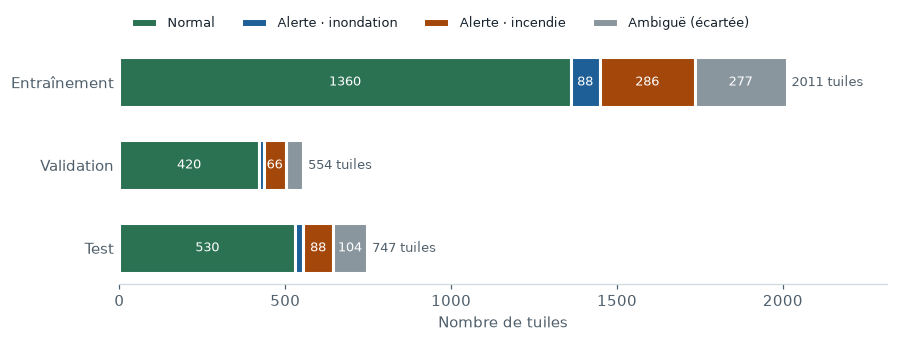
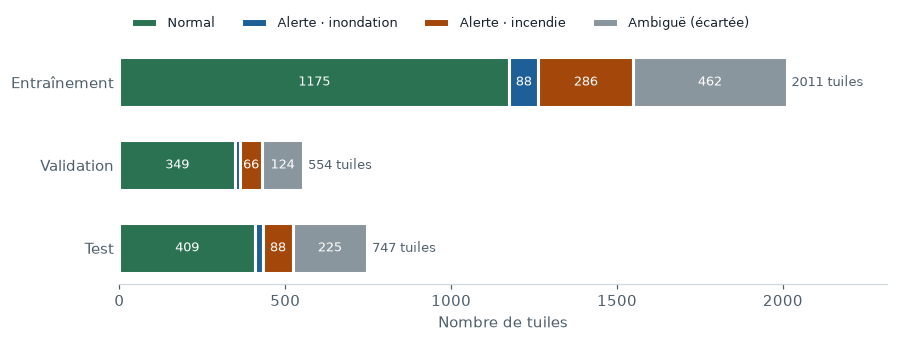
Étiquettes v2 : anciens feux écartés des normales californiennes
Périmètres NIFC 2012-2022 (onelook.data.fire_history, étape fire_history).
Une normale recouverte à plus de 0,5 % par un feu de l'année de l'image ou
des 3 précédentes passe en ambiguë : 377 tuiles, dont 121 en test.
Le premier réseau, réévalué sans réentraînement : précision incendie
81 → 90 %, fausses alertes 3,8 → 2,7 %. Notebook 03 prêt pour réentraîner
à 256 et 512 px (runs suffixés _v2).

diff --git a/src/onelook/data/fire_history.py b/src/onelook/data/fire_history.py
@@ -1,0 +1,92 @@
+"""Historique des périmètres de feux (NIFC, InterAgency Fire Perimeter History), pour les étiquettes.
+
+CaBuAr n'annote que l'incendie de l'événement : les cicatrices des feux des années précédentes restent
+« normales », alors qu'elles se voient encore sur l'image. Ce module mesure, pour chaque tuile, la part
+couverte par des feux des années précédant l'image. Sert aux étiquettes, pas d'entrée au modèle.
+"""
+
+from __future__ import annotations
+
+import json
+from pathlib import Path
+
+import numpy as np
+import requests
+from rasterio.features import rasterize
+from rasterio.warp import transform_geom
+
+from onelook.data.l2a import Grid
+
+SERVICE = ("https://services3.arcgis.com/T4QMspbfLg3qTGWY/arcgis/rest/services/"
+           "InterAgencyFirePerimeterHistory_All_Years_View/FeatureServer/0/query")
+CALIFORNIA = (-124.5, 32.5, -114.0, 42.0)
+PAGE = 500
+SIMPLIFY_DEG = 0.0003  # environ 30 m : bien en dessous d'un pixel de la grille de mesure
+MEASURE_SIZE = 128  # grille de mesure (40 m) : suffisante pour une part de tuile
+
+
+def download(out: Path, first_year: int, last_year: int, bbox: tuple = CALIFORNIA) -> Path:
+    """Télécharge les périmètres (GeoJSON, WGS84) des feux de first_year à last_year dans bbox."""
+    features, offset = [], 0
+    while True:
+        params = {
+            "where": f"FIRE_YEAR_INT>={first_year} AND FIRE_YEAR_INT<={last_year}",
+            "geometry": ",".join(map(str, bbox)), "geometryType": "esriGeometryEnvelope", "inSR": 4326,
+            "spatialRel": "esriSpatialRelIntersects", "outFields": "FIRE_YEAR_INT,INCIDENT,SOURCE",
+            "outSR": 4326, "maxAllowableOffset": SIMPLIFY_DEG, "geometryPrecision": 5,
+            "resultOffset": offset, "resultRecordCount": PAGE, "orderByFields": "OBJECTID", "f": "geojson",
+        }
+        response = requests.get(SERVICE, params=params, timeout=120)
+        response.raise_for_status()
+        page = response.json()["features"]
+        features += [f for f in page if f.get("geometry")]
+        if len(page) < PAGE:
+            break
+        offset += PAGE
+    out.parent.mkdir(parents=True, exist_ok=True)
+    out.write_text(json.dumps({"type": "FeatureCollection", "features": features}))
+    return out
+
+
+def load(path: Path) -> list[dict]:
+    """Périmètres sous la forme {year, name, geometry, bbox} (bbox en WGS84, pour filtrer vite)."""
+    fires = []
+    for feature in json.loads(Path(path).read_text())["features"]:
+        coords = np.concatenate([np.asarray(ring)[:, :2] for ring in _rings(feature["geometry"])])
+        fires.append({"year": int(feature["properties"]["FIRE_YEAR_INT"]),
+                      "name": feature["properties"].get("INCIDENT"), "geometry": feature["geometry"],
+                      "bbox": (*coords.min(axis=0), *coords.max(axis=0))})
+    return fires
+
+
+def _rings(geometry: dict) -> list:
+    if geometry["type"] == "Polygon":
+        return geometry["coordinates"]
+    return [ring for polygon in geometry["coordinates"] for ring in polygon]
+
+
+def _overlaps(a: tuple, b: tuple) -> bool:
+    return a[0] <= b[2] and b[0] <= a[2] and a[1] <= b[3] and b[1] <= a[3]
+
+
+def history_stats(grid: Grid, fires: list[dict], image_year: int, years: tuple[int, ...] = (0, 1, 2, 3, 5)) -> dict:
+    """Part de la tuile couverte par des feux de l'année de l'image et des n années précédentes (n de years).
+
+    frac_fire_0y ne compte que les feux de l'année de l'image : sans date de fin fiable, on ne sait pas
+    s'ils précèdent l'image. Pour une image après feu CaBuAr, il contient le feu de l'événement lui-même.
+    """
+    box = grid.bounds_wgs84()
+    recent = [f for f in fires if image_year - max(years) <= f["year"] <= image_year and _overlaps(f["bbox"], box)]
+    scale = grid.width / MEASURE_SIZE
+    transform = grid.transform * grid.transform.scale(scale, scale)
+    age = np.full((MEASURE_SIZE, MEASURE_SIZE), 255, dtype=np.uint8)  # âge du feu le plus récent, en années
+    names = set()
+    for fire in sorted(recent, key=lambda f: f["year"]):
+        shape = transform_geom("EPSG:4326", grid.crs, fire["geometry"])
+        burned = rasterize([shape], out_shape=age.shape, transform=transform, fill=0, dtype=np.uint8) > 0
+        age[burned] = image_year - fire["year"]
+        if burned.any():
+            names.add(f"{fire['name'] or '?'} {fire['year']}")
+    stats = {f"frac_fire_{n}y": round(float((age <= n).mean()), 4) for n in years}
+    stats["fire_history_names"] = ";".join(sorted(names))
+    return stats

diff --git a/scripts/build_dataset.py b/scripts/build_dataset.py
@@ -6,6 +6,7 @@
     uv run python scripts/build_dataset.py fires     # 534 tuiles CaBuAr → ~2 100 tuiles + images avant feu
     uv run python scripts/build_dataset.py normals   # catalogue sur plusieurs années + points au hasard
     uv run python scripts/build_dataset.py water     # carte d'eau permanente JRC sur chaque tuile
+    uv run python scripts/build_dataset.py fire_history  # anciens feux (NIFC) sur les tuiles de Californie
     uv run python scripts/build_dataset.py index     # index.csv avec le découpage train / val / test
     uv run python scripts/build_dataset.py all       # tout, dans l'ordre
 
@@ -26,7 +27,7 @@ import pandas as pd
 import yaml
 from tqdm import tqdm
 
-from onelook.data import build, l2a, sources, water
+from onelook.data import build, fire_history, l2a, sources, water
 from onelook.data.labels import LabelRules
 from onelook.data.splits import assign_zones, haversine_km, spatial_zones
 
@@ -149,6 +150,29 @@ def stage_water(limit: int | None, workers: int) -> None:
     run_jobs(jobs, worker, log, workers, "Eau permanente")
 
 
+def stage_fire_history(limit: int | None, workers: int) -> None:
+    """Part de chaque tuile de Californie couverte par des feux des années précédentes (fire_history.jsonl)."""
+    perimeters = ROOT / "data" / "raw" / "fire_history" / "nifc_californie_2012_2022.geojson"
+    if not perimeters.exists():
+        fire_history.download(perimeters, 2012, 2022)
+    fires = fire_history.load(perimeters)
+    log = DATASET / "fire_history.jsonl"
+    done = build.done_ids(log)
+    west, south, east, north = fire_history.CALIFORNIA
+    tiles = pd.concat([read_log(n) for n in ("floods", "fires", "normals")], ignore_index=True)
+    if "error" in tiles:
+        tiles = tiles[tiles["error"].isna()]
+    tiles = tiles[tiles["lon"].between(west, east) & tiles["lat"].between(south, north)]
+    jobs = [{"id": r.id, "image": r.image, "year": int(str(r.date)[:4])}
+            for r in tiles.drop_duplicates("id", keep="last").itertuples() if r.id not in done][:limit]
+
+    def worker(job: dict) -> dict:
+        grid = l2a.Grid.from_file(DATASET / job["image"])
+        return {"id": job["id"], **fire_history.history_stats(grid, fires, job["year"])}
+
+    run_jobs(jobs, worker, log, workers, "Anciens feux")
+
+
 def stage_index() -> None:
     df = pd.concat([read_log(n) for n in ("floods", "fires", "normals")], ignore_index=True)
     if "error" not in df:
@@ -161,11 +185,12 @@ def stage_index() -> None:
     group_split = {g: split for split, groups in splits["groups"].items() for g in groups}
     group_split.update(cabuar_zone_splits(df, splits["cabuar_zones"]))
     df["split"] = df["group"].map(group_split).fillna(splits["default"])
-    water_log = read_log("water")
-    if "error" in water_log:
-        water_log = water_log[water_log["error"].isna()].drop(columns="error")
-    if len(water_log):
-        df = df.merge(water_log.drop_duplicates("id", keep="last"), on="id", how="left")
+    for name in ("water", "fire_history"):
+        extra = read_log(name)
+        if "error" in extra:
+            extra = extra[extra["error"].isna()].drop(columns="error")
+        if len(extra):
+            df = df.merge(extra.drop_duplicates("id", keep="last"), on="id", how="left")
     df["scenes"] = df["scenes"].map(lambda s: ";".join(s) if isinstance(s, list) else s)
     df.sort_values(["split", "source", "id"]).to_csv(DATASET / "index.csv", index=False)
 
@@ -181,7 +206,7 @@ def stage_index() -> None:
 
 def main() -> None:
     parser = argparse.ArgumentParser(description=__doc__, formatter_class=argparse.RawDescriptionHelpFormatter)
-    parser.add_argument("stage", choices=["floods", "fires", "normals", "water", "index", "all"])
+    parser.add_argument("stage", choices=["floods", "fires", "normals", "water", "fire_history", "index", "all"])
     parser.add_argument("--limit", type=int, help="Nombre maximal de tâches (essai)")
     parser.add_argument("--workers", type=int, default=6)
     args = parser.parse_args()
@@ -194,6 +219,8 @@ def main() -> None:
         stage_normals(args.limit, args.workers)
     if args.stage in ("water", "all"):
         stage_water(args.limit, args.workers)
+    if args.stage in ("fire_history", "all"):
+        stage_fire_history(args.limit, args.workers)
     if args.stage in ("index", "all"):
         stage_index()
 

diff --git a/tests/test_fire_history.py b/tests/test_fire_history.py
@@ -1,0 +1,30 @@
+from affine import Affine
+from rasterio.warp import transform_bounds
+
+from onelook.data.fire_history import history_stats
+from onelook.data.l2a import Grid
+
+# Tuile de 5,12 km en UTM 10N, en Californie
+GRID = Grid("EPSG:32610", Affine(10, 0, 600_000, 0, -10, 4_200_000))
+
+
+def fire(year: int, left_share: float) -> dict:
+    """Feu couvrant la part left_share de la tuile, côté ouest."""
+    x0, y0, x1, y1 = 599_000, 4_194_880, 600_000 + 5120 * left_share, 4_201_000
+    west, south, east, north = transform_bounds("EPSG:32610", "EPSG:4326", x0, y0, x1, y1)
+    ring = [[west, south], [east, south], [east, north], [west, north], [west, south]]
+    return {"year": year, "name": f"F{year}", "geometry": {"type": "Polygon", "coordinates": [ring]},
+            "bbox": (west, south, east, north)}
+
+
+def test_history_counts_fires_by_age():
+    stats = history_stats(GRID, [fire(2018, 0.25), fire(2020, 0.5), fire(2010, 1.0)], image_year=2020)
+    assert abs(stats["frac_fire_0y"] - 0.5) < 0.03  # feu de l'année de l'image
+    assert abs(stats["frac_fire_1y"] - 0.5) < 0.03
+    assert abs(stats["frac_fire_2y"] - 0.5) < 0.03  # le feu de 2018 est sous celui de 2020
+    assert stats["frac_fire_5y"] < 0.53  # le feu de 2010 est trop ancien
+    assert stats["fire_history_names"] == "F2018 2018;F2020 2020"
+
+
+def test_later_fires_are_ignored():
+    assert history_stats(GRID, [fire(2021, 1.0)], image_year=2020)["frac_fire_5y"] == 0

diff --git a/src/onelook/data/labels.py b/src/onelook/data/labels.py
@@ -17,6 +17,7 @@ class LabelRules:
     flood_alert: float = 0.05
     fire_alert: float = 0.05
     normal_max: float = 0.005
+    fire_history_years: int = 3
 
     @classmethod
     def from_yaml(cls, path: Path) -> LabelRules:
@@ -41,4 +42,8 @@ def add_labels(index: pd.DataFrame, rules: LabelRules) -> pd.DataFrame:
         label_row(f, v, b, rules)
         for f, v, b in zip(out["frac_flood"].fillna(0), out["frac_valid"].fillna(1), out["frac_burned"].fillna(0))
     ]
+    history = f"frac_fire_{rules.fire_history_years}y"
+    if history in out:
+        old_scar = (out["label"] == NORMAL) & (out[history].fillna(0) >= rules.normal_max)
+        out.loc[old_scar, "label"] = AMBIGUOUS
     return out

diff --git a/tests/test_labels.py b/tests/test_labels.py
@@ -26,3 +26,9 @@ def test_tiny_anomaly_is_ambiguous_and_nothing_is_normal():
 def test_add_labels_handles_missing_fractions():
     index = pd.DataFrame({"frac_flood": [0.5, None], "frac_valid": [1.0, None], "frac_burned": [0.0, None]})
     assert list(add_labels(index, RULES)["label"]) == [FLOOD, NORMAL]
+
+
+def test_old_fire_scar_turns_normal_into_ambiguous():
+    index = pd.DataFrame({"frac_flood": [0.0, 0.0, 0.0], "frac_valid": [1.0, 1.0, 1.0],
+                          "frac_burned": [0.0, 0.0, 0.3], "frac_fire_3y": [0.2, None, 0.4]})
+    assert list(add_labels(index, RULES)["label"]) == [AMBIGUOUS, NORMAL, FIRE]

diff --git a/scripts/pack_dataset.py b/scripts/pack_dataset.py
@@ -20,7 +20,7 @@ ROOT = Path(__file__).resolve().parents[1]
 DATASET = ROOT / "data" / "dataset"
 PACK = ROOT / "data" / "pack"
 COLUMNS = ["id", "path", "split", "label", "source", "category", "group", "date", "lon", "lat",
-           "frac_valid", "frac_flood", "frac_burned", "frac_permanent_jrc", "scl_water_outside_jrc", "scl_cloud"]
+           "frac_valid", "frac_flood", "frac_burned", "frac_permanent_jrc", "scl_water_outside_jrc", "scl_cloud", "frac_fire_3y"]
 
 CARD = """---
 license: other

diff --git a/docs/failure_cases.md b/docs/failure_cases.md
@@ -36,7 +36,13 @@ Mesure à l'appui : la part de pixels au « brûlé apparent » (NBR < −0,05 e
 - le taux de fausses alertes incendie mesuré (3,2 % des normales) est **surestimé** ;
 - à l'entraînement, ces tuiles apprennent au modèle à ignorer de vraies cicatrices, ce qui peut lui coûter des détections.
 
-**Correction prévue :** croiser les tuiles CaBuAr avec l'historique public des périmètres de feux de Californie (CAL FIRE FRAP) des deux années précédentes. Une normale qui recoupe un feu récent passera en ambiguë, donc écartée de l'entraînement et de l'évaluation.
+**Correction appliquée (6 novembre) :** les périmètres de l'historique fédéral NIFC (qui regroupe ceux de CAL FIRE) des 3 années précédant l'image, plus celle de l'image, sont croisés avec chaque tuile de Californie. Une normale recouverte à plus de 0,5 % passe en ambiguë (détail dans [Étiquettes et découpage](data/labels_splits.md#anciens-feux-des-normales-qui-nen-sont-pas)).
+
+- **9 des 17 fausses alertes** sont recouvertes par un feu récent. Les deux images avant feu de fin août 2019 le sont par le feu Long Valley de juillet 2019 : la « cicatrice plus ancienne » vue sur la planche était fraîche de quelques semaines.
+- Les normales recouvertes déclenchent près de trois fois plus de fausses alertes que les autres (7,4 % contre 2,7 %).
+- **Même modèle, étiquettes v2 :** la précision incendie passe de 81 à 90 %, et les fausses alertes de 3,8 à 2,7 %. Rien n'a changé dans le modèle, seulement dans ce qu'on lui reprochait.
+
+Les 8 fausses alertes restantes (sols sombres, lits de rivière, brûlis absents de l'historique) sont de vraies erreurs du modèle. Le réentraînement sur les étiquettes v2 dira si un apprentissage plus propre les réduit.
 
 ## Fausses alertes inondation : l'eau saisonnière
 
@@ -85,7 +91,7 @@ C'est exactement la question du contexte (où est l'eau habituellement ?) que la
 
 ## Pistes d'amélioration, par ordre d'effet attendu
 
-1. **Nettoyer les étiquettes incendie** avec l'historique des périmètres de feux (anciennes cicatrices → ambiguës).
+1. ~~Nettoyer les étiquettes incendie~~ avec l'historique des périmètres de feux : fait le 6 novembre (étiquettes v2), réentraînement en cours.
 2. **Clarifier l'eau saisonnière** : décider, avec le mentor, si une rizière ou un réservoir saisonnier en eau mérite une alerte, et rendre les étiquettes cohérentes avec ce choix.
 3. **Entraîner à 512 px** pour les petites zones brûlées et les filets d'eau, et mesurer le coût en temps.
 4. **Régler le seuil « inconnu »** selon la priorité : moins de fausses alertes, ou plus de détections.
@@ -95,4 +101,4 @@ C'est exactement la question du contexte (où est l'eau habituellement ?) que la
 - 25 inondations en test : une tuile représente 4 points de rappel.
 - Tous les incendies sont californiens, y compris en test.
 - Le seuil « inconnu » est calibré sur 501 tuiles de validation, dont 15 inondations.
-- Les étiquettes incendie contiennent du bruit (anciennes cicatrices) : les mesures d'incendie sont à lire avec cette réserve.
+- Les étiquettes incendie v2 écartent les cicatrices de moins de 3 ans connues de l'historique ; un brûlis plus ancien ou non répertorié peut encore rester dans une normale.

diff --git a/docs/data/labels_splits.md b/docs/data/labels_splits.md
@@ -17,6 +17,28 @@ Trois choix à noter :
 - **La part est comptée sur la tuile entière, pas sur sa partie visible.** Une inondation cachée sous les nuages ne compte pas : le modèle ne doit pas alerter sur ce qu'il ne voit pas.
 - **La zone ambiguë évite d'apprendre des frontières arbitraires.** Une tuile à 2 % d'eau n'est ni clairement normale, ni clairement en alerte.
 
+### Anciens feux : des normales qui n'en sont pas
+
+CaBuAr n'annote que l'incendie de l'événement. Les cicatrices des feux des années précédentes, encore visibles sur l'image, restaient donc « normales ». L'[analyse des échecs](../failure_cases.md) l'a montré : le réseau prenait certaines de ces tuiles pour des incendies, à raison.
+
+Correction (6 novembre, module `onelook.data.fire_history`, étape `fire_history` de `scripts/build_dataset.py`) :
+
+1. Télécharger les périmètres des feux de Californie de 2012 à 2022 dans l'historique fédéral NIFC (*InterAgency Fire Perimeter History*, 5 763 périmètres, qui regroupe ceux de CAL FIRE et des agences fédérales).
+2. Mesurer, sur chaque tuile de Californie, la part couverte par un feu de l'année de l'image ou des 3 années précédentes (`fire_history_years: 3` dans `configs/labels.yaml`).
+3. Une normale couverte à plus de 0,5 % passe en **ambiguë**, comme une tuile avec un peu d'anomalie.
+
+Les feux de l'année de l'image comptent : l'historique ne donne que l'année, pas la date de fin, et un feu de l'été précédant une image d'automne est bien visible. Effet : **377 normales californiennes** (21 %) passent en ambiguës, dont 121 en test. Aucune autre étiquette ne change.
+
+| Fenêtre (années avant l'image) | Normales écartées | Fausses alertes incendie du premier réseau expliquées |
+|---|---|---|
+| Année de l'image seule | 39 | 3 sur 17 |
+| 1 an | 136 | 6 sur 17 |
+| 2 ans | 261 | 7 sur 17 |
+| **3 ans (retenu)** | **377** | **9 sur 17** |
+| 5 ans | 539 | 9 sur 17 |
+
+Au-delà de 3 ans, on écarte beaucoup plus de normales sans expliquer davantage d'erreurs : la végétation a repoussé.
+
 La décision <span class="ol-badge ol-badge--unknown">Inconnu</span> n'est pas une classe apprise : elle viendra du score de confiance du modèle, calibré sur la validation, et sera testée sur un lot de phénomènes jamais vus.
 
 <figure markdown="span">

diff --git a/CLAUDE.md b/CLAUDE.md
@@ -9,6 +9,7 @@ Format validé avec le mentor (21 oct) : images **Sentinel-2** (pas Sentinel-1),
 - CaBuAr pré-découpé : numéros de tuiles renumérotés et pas de géoréférence → position retrouvée par corrélation B08 basse résolution (`onelook.data.build.CabuarScene`). Chaque tuile CaBuAr (10 km, 20 m) → 4 tuiles 512 à 10 m + 1 image avant feu (normale).
 - Jeu complet : `scripts/build_dataset.py` (étapes floods / fires / normals / water / index, reprise automatique) → `data/dataset/index.csv`. Normales : `configs/normal_sites.yaml` (sites × 4 années) + `configs/normal_random.yaml` (points au hasard).
 - Eau permanente (2 nov) : JRC Global Surface Water (`onelook.data.water`, occurrence ≥ 50 % ou pleine mer, IoU 0,90 avec Sen1Floods11) sur chaque tuile, `*_water.tif`. Pour les étiquettes et l'évaluation, pas en entrée du modèle. Piste mentor (29 oct) : petit VLM compressé pour raisonner sur océans et cours d'eau, à mesurer comme une approche de plus.
+- Anciens feux (6 nov) : périmètres NIFC 2012-2022 (`onelook.data.fire_history`, étape `fire_history`) ; une normale californienne recouverte > 0,5 % par un feu de l'année de l'image ou des 3 précédentes passe en ambiguë (étiquettes v2, runs suffixés `_v2`).
 - Découpage par groupe : `configs/splits.yaml` (pays Sen1Floods11, zone spatiale CaBuAr à 10 km via `onelook.data.splits` — les plis CaBuAr fuyaient, région). Étiquettes : `configs/labels.yaml` + `onelook.data.labels` (parts sur la tuile entière, zone ambiguë écartée). Rapport et contrôle de fuite spatiale : `scripts/dataset_report.py`.
 - Filet de sécurité : si les incendies prennent du retard, le modèle inondation seul reste un projet complet.
 

diff --git a/docs/results.md b/docs/results.md
@@ -3,7 +3,10 @@
 Tableau comparatif des approches testées, demandé par le sujet. Toutes les mesures sont faites sur le même **jeu de test** : 747 tuiles de zones jamais vues à l'entraînement, dont 643 hors tuiles ambiguës (530 normales, 25 inondations, 88 incendies). Les définitions sont dans `onelook.evaluation.metrics`.
 
 !!! note "Premiers résultats (5 novembre)"
-    Baselines et premier réseau entraînés sur Colab (`notebooks/03_colab_entrainement.ipynb`). Quantification et piste VLM à venir.
+    Baselines et premier réseau entraînés sur Colab (`notebooks/03_colab_entrainement.ipynb`), avec les étiquettes v1. Quantification et piste VLM à venir.
+
+!!! warning "Étiquettes v2 (6 novembre)"
+    Les normales californiennes recouvertes par un feu récent passent en ambiguës (voir [anciens feux](data/labels_splits.md#anciens-feux-des-normales-qui-nen-sont-pas)). Le test v2 compte 522 tuiles hors ambiguës (409 normales, 25 inondations, 88 incendies). Le tableau ci-dessous reste en v1 jusqu'au réentraînement ; le premier réseau, simplement réévalué en v2, donne une précision incendie de **90 %** (au lieu de 81 %) et **2,7 %** de fausses alertes (au lieu de 3,8 %), rappels inchangés.
 
 | Approche | Précision (inond. · incendie) | Rappel (inond. · incendie) | Fausses alertes | Fausses alertes sur l'eau | Taille (Mo) | Temps (ms) |
 |---|---|---|---|---|---|---|

diff --git a/docs/reproduce.md b/docs/reproduce.md
@@ -32,9 +32,10 @@ uv run python scripts/build_dataset.py all
 uv run python scripts/dataset_report.py
 ```
 
-Chaque étape (`floods`, `fires`, `normals`, `water`, `index`) peut se lancer seule et reprend là où elle s'est arrêtée. Durée : environ une heure, surtout des lectures réseau. Résultat dans `data/dataset/` :
+Chaque étape (`floods`, `fires`, `normals`, `water`, `fire_history`, `index`) peut se lancer seule et reprend là où elle s'est arrêtée. Durée : environ une heure, surtout des lectures réseau. Résultat dans `data/dataset/` :
 
 - `floods/`, `fires/`, `normals/` : une tuile GeoTIFF 12 bandes par image, sa carte SCL et, si elle existe, sa vérité terrain (`*_mask.tif`) ;
+- `fire_history.jsonl` : la part de chaque tuile de Californie couverte par un feu récent (périmètres NIFC, téléchargés une fois dans `data/raw/fire_history/`) ;
 - `*_water.tif` : la carte d'eau permanente JRC de chaque tuile (occurrence de l'eau 1984-2020, 255 en pleine mer) ;
 - `index.csv` : une ligne par tuile, avec ses parts d'anomalie et sa partie (train, val, test) ;
 - `index_labels.csv` et `report.md` : décisions attendues selon `configs/labels.yaml`, et contrôle de fuite spatiale.
